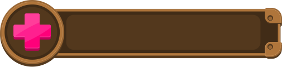
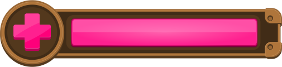
added mana gain

diff --git a/src/components/Stage.js b/src/components/Stage.js
@@ -38,6 +38,7 @@ class Stage extends React.Component {
             this.checkBorderCollision();
             this.checkPaddleCollision();
             this.checkCratesCollision();
+            this.props.increaseMana(0.1);
             this.props.loopTick();
         }, 10);
     };
@@ -126,7 +127,13 @@ class Stage extends React.Component {
                     if (!this.keyInterval[KEYCODES.RIGHT]) {
 
                         this.keyInterval[KEYCODES.RIGHT] = setInterval(()=>{
+                            if (this.props.mana <= 0) {
+                                this.clearKeyInterval(KEYCODES.RIGHT);
+                                this.props.castStop();
+                                return;
+                            }
                             this.props.spellCasting();
+                            this.props.decreaseMana(1);
                         }, 25);
                     }
                 } else {
@@ -374,7 +381,9 @@ const mapDispatchToProps = (dispatch) => {
         changeDirYWithParam: (param) => dispatch(actions.changeDirYWithParam(param)),
         decreaseCrateValue: (id) => dispatch(actions.decreaseCrateValue(id)),
         hideCrate: (id) => dispatch(actions.hideCrate(id)),
-        addPoints: (points) => dispatch(actions.addPoints(points))
+        addPoints: (points) => dispatch(actions.addPoints(points)),
+        increaseMana: (value) => dispatch(actions.increaseMana(value)),
+        decreaseMana: (value) => dispatch(actions.decreaseMana(value))
     }
 };
 

diff --git a/src/reducers/gameReducer.js b/src/reducers/gameReducer.js
@@ -5,7 +5,7 @@ const initialState = {
     blocks: [],
     lifes: 3,
     points: 0,
-    mana: 100,
+    mana: 188,
     health: 100,
     wizard: {
         positionTop: 175,
@@ -157,6 +157,16 @@ const gameReducer = (state = initialState, action) => {
         case ACTIONS.ADD_POINTS:
             return {...state,
                 points: state.points + action.payload.points
+            };
+
+        case ACTIONS.INCREASE_MANA:
+            return {...state,
+                mana: state.mana + action.payload.value
+            };
+
+        case ACTIONS.DECREASE_MANA:
+            return {...state,
+                mana: state.mana - action.payload.value
             };
 
         case ACTIONS.DECREASE_LIFE:

diff --git a/src/actions/stageActions.js b/src/actions/stageActions.js
@@ -178,11 +178,35 @@ export function decreaseLife(){
     };
 }
 
-export function addPoints(points){
+export function addPoints(points) {
     return{
         type: ACTIONS.ADD_POINTS,
         payload: {
             points
+        },
+        meta:{
+            timestamp: Date.now()
+        }
+    };
+}
+
+export function increaseMana(value) {
+    return{
+        type: ACTIONS.INCREASE_MANA,
+        payload: {
+            value
+        },
+        meta:{
+            timestamp: Date.now()
+        }
+    };
+}
+
+export function decreaseMana(value) {
+    return{
+        type: ACTIONS.DECREASE_MANA,
+        payload: {
+            value
         },
         meta:{
             timestamp: Date.now()

diff --git a/src/styles/stage.scss b/src/styles/stage.scss
@@ -36,6 +36,21 @@
     }
 }
 
+.health-bar, .mana-bar {
+    position: relative;
+    span {
+        position: absolute;
+        background-color: #53381d;
+        //content: '';
+        top: 18px;
+        bottom: 19px;
+        //left: 70px;
+        right: 24px;
+        //l 70 - 0
+        //l 258 - 188
+    }
+}
+
 .lifes-bar {
     position: absolute;
     top: -4px;

diff --git a/src/constants/actions.js b/src/constants/actions.js
@@ -16,7 +16,9 @@ const ACTIONS = {
     DECREASE_CRATE_VALUE: Symbol('DECREASE_CRATE_VALUE'),
     DECREASE_LIFE: Symbol('DECREASE_LIFE'),
     ADD_POINTS: Symbol('ADD_POINTS'),
-    HIDE_CRATE: Symbol('HIDE_CRATE')
+    HIDE_CRATE: Symbol('HIDE_CRATE'),
+    INCREASE_MANA: Symbol('INCREASE_MANA'),
+    DECREASE_MANA: Symbol('DECREASE_MANA')
 };
 
 export default ACTIONS

diff --git a/src/components/Mana.jsx b/src/components/Mana.jsx
@@ -8,7 +8,7 @@ class Mana extends React.Component {
     render() {
         return (
             <div className="mana-bar">
-                {/*<H2Header>{this.props.children}</H2Header>*/}
+                <span style={{left: this.props.mana + 70 + 'px'}}></span>
             </div>
         );
     }

diff --git a/src/components/Health.jsx b/src/components/Health.jsx
@@ -8,7 +8,7 @@ class Health extends React.Component {
     render() {
         return (
             <div className="health-bar">
-                {/*<H2Header>{this.props.children}</H2Header>*/}
+                <span></span>
             </div>
         );
     }
